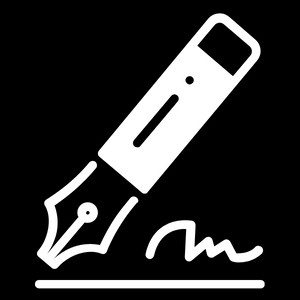
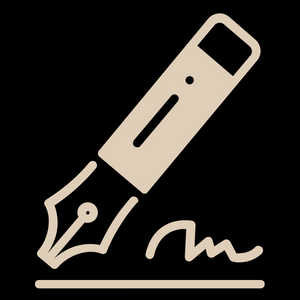
branco substituido por dfceb8

Changed region(s): [[0.12, 0.03, 0.87, 0.9], [0.12, 0.93, 0.9, 0.99], [0.48, 0.72, 0.9, 0.9]]

diff --git a/style.css b/style.css
@@ -14,7 +14,8 @@ header {
     position: fixed;
     z-index: 999;
     width: 100%;
-    background-color: #613402;
+    background-color: #dfceb8;
+    /* background-color: #613402; */
     padding: 10px;
     display: flex;
     align-items: center;
@@ -50,7 +51,7 @@ img {
 }       
 
 .lista-menu a {
-    color: #fff;
+    color: #dfceb8;
     font-size: 15px;
     padding: 30px;
     font-family: 'Segoe UI', Tahoma, Geneva, Verdana, sans-serif;
@@ -62,7 +63,7 @@ img {
 }
 
 .menu-hamburguer a {
-    color: #fff;
+    color: #dfceb8;
     font-size: 17px;
     font-family: 'Segoe UI', Tahoma, Geneva, Verdana, sans-serif;
     padding: 20px;
@@ -70,7 +71,7 @@ img {
 }
 
 .menu-hamburguer a:hover {
-    background-color: #fff;
+    background-color: #dfceb8;
     color: #613402;
 }
 
@@ -98,14 +99,14 @@ img {
     text-align: center;
     font-family: Verdana, Geneva, Tahoma, sans-serif;
     font-size: 30px;
-    color: #fff;
+    color: #dfceb8;
 }
 
 .linha-brown {
     width: 70px;
     height: 3px;
     margin: 20px auto;
-    background-color: #fff;
+    background-color: #dfceb8;
 }
 
 .variedades {
@@ -122,7 +123,7 @@ img {
     /* display: inline-block; */
     min-width: 110px;
     text-align: center;
-    color: #fff;
+    color: #dfceb8;
     padding: 5px;
     transition: 1s all;
 }
@@ -160,13 +161,13 @@ img {
 #p-eventos {
     font-size: 16px;
     font-family: 'Times New Roman', Times, serif;
-    color: #fff;
+    color: #dfceb8;
 }
 
 .container-eventos:hover {
     filter: brightness(50%);
-    color: #fff;
-    border-bottom: 1px solid #fff;
+    color: #dfceb8;
+    border-bottom: 1px solid #dfceb8;
 }
 
 .background-eventos {
@@ -186,7 +187,7 @@ img {
 }
 
 .container-eventos p {
-    color: #fff;
+    color: #dfceb8;
     margin-top: 7px;
     font-size: 20px;
     font-family: 'Courier New', Courier, monospace;
@@ -212,7 +213,7 @@ img {
     text-align: center;
     font-size: 40px;
     font-family: Cambria, Cochin, Georgia, Times, 'Times New Roman', serif;
-    color: #fff;
+    color: #dfceb8;
 }
 
 .apresentacao p {
@@ -220,14 +221,14 @@ img {
     margin-top: 40px;
     font-size: 19px;
     text-align: justify;
-    color: #fff;
+    color: #dfceb8;
 }
 
 #junior-img {
     max-width: 450px;
     display: block;
     margin: 0 auto;
-    box-shadow: 1px 1px 10px #fff;
+    box-shadow: 1px 1px 10px #dfceb8;
     border-radius: 5px;
 }
 
@@ -239,14 +240,14 @@ img {
 
 #orcamento {
     display: block;
-    margin: 40px auto 0 auto;
+    margin: 60px auto 0 auto;
     max-width: 65px;
 }
 
 .formulario h2 {
     margin-top: 5px;
     font-size: 35px;
-    color: #fff;
+    color: #dfceb8;
     text-align: center;
     font-family: Verdana, Geneva, Tahoma, sans-serif;
     
@@ -269,8 +270,9 @@ button {
     margin-top: 10px;
     cursor: pointer;
     outline: none;
-    background-color: #fff;
+    background-color: #dfceb8;
     border: none;
+    box-shadow: 1px 2px 8px #dfceb8;
 }
 
 button:hover {
@@ -306,7 +308,7 @@ main {
 }
 
 h2, h1 {
-    text-shadow: 1px 2px 10px #fff;
+    text-shadow: 1px 2px 10px #dfceb8;
 }
 
 @media(max-width: 500px) {
